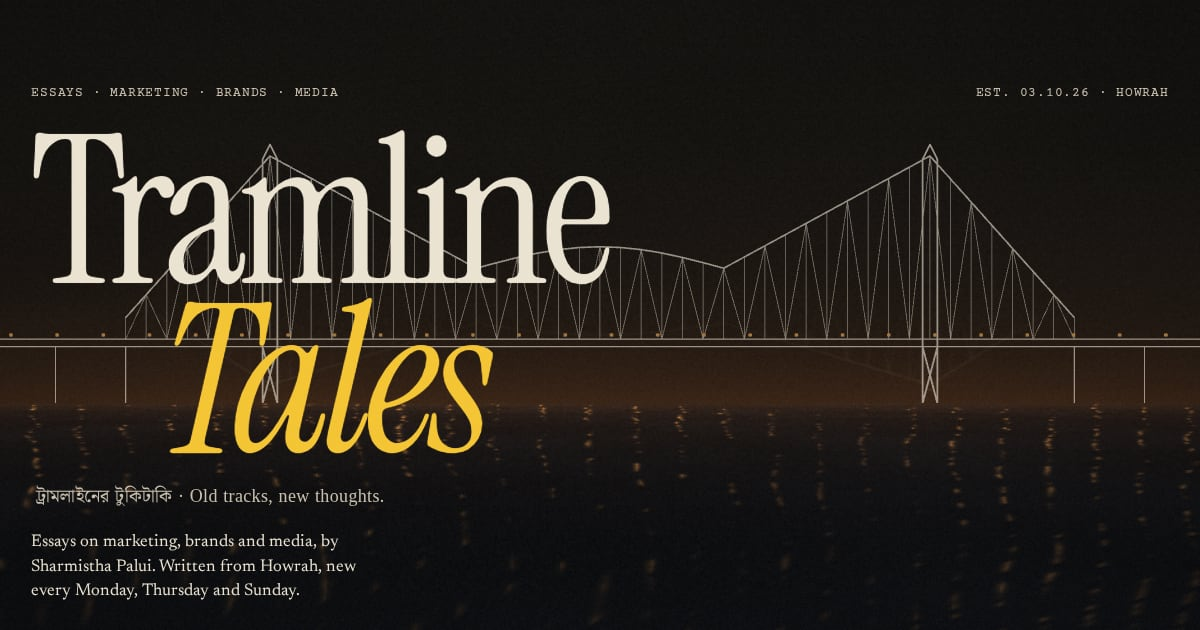
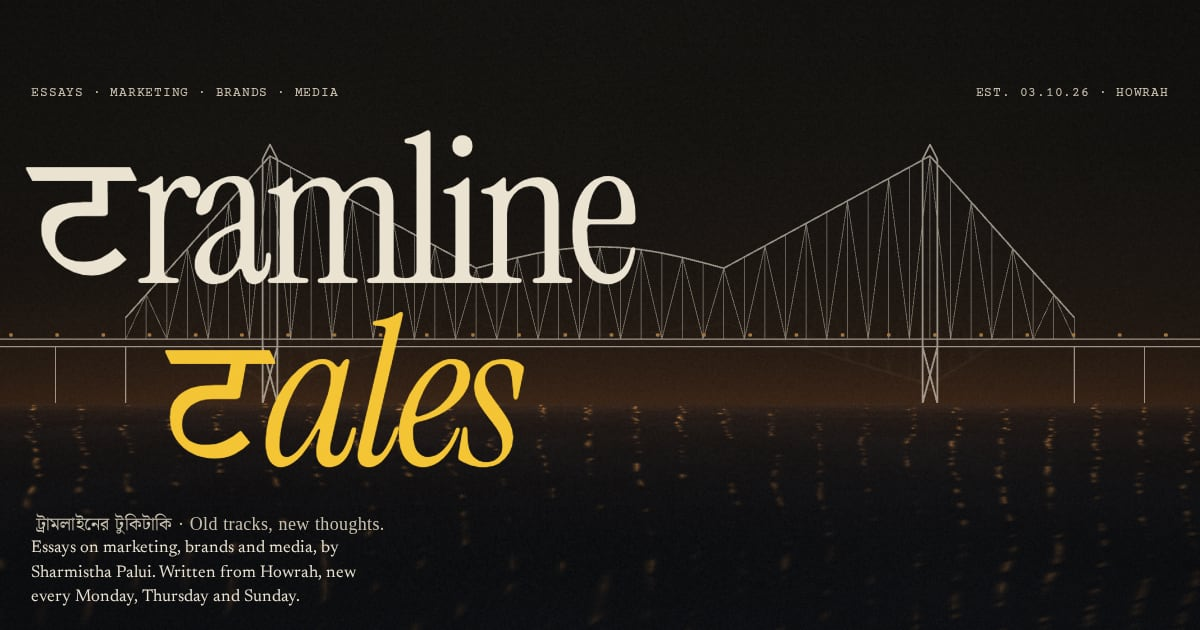
Write the T of Tramline and Tales as ट in the home-page title
The hero H1 now shows टramline टales, set in Tiro Devanagari Hindi (with
its italic for टales). Screen readers and search engines still read the
title as "Tramline Tales". The share preview image is re-rendered to match.

Claude-Session: https://claude.ai/code/session_013u1DaVAxypCDrdt69CvmPq

Changed region(s): [[0.0, 0.2111, 0.555, 0.754], [0.0308, 0.754, 0.3083, 0.9651]]

diff --git a/src/styles/global.css b/src/styles/global.css
@@ -6,6 +6,8 @@
 @import '@fontsource/courier-prime/latin-700.css';
 @import '@fontsource/nanum-pen-script/latin-400.css';
 @import '@fontsource/noto-serif-bengali/bengali-400.css';
+@import '@fontsource/tiro-devanagari-hindi/devanagari-400.css';
+@import '@fontsource/tiro-devanagari-hindi/devanagari-400-italic.css';
 @import 'lenis/dist/lenis.css';
 
 /* ---------- tokens ---------- */
@@ -159,6 +161,8 @@ html.js.arriving .wipe { visibility: visible; }
 .hero-kicker { display: flex; justify-content: space-between; gap: 16px; color: var(--paper-dim); }
 .hero-title { align-self: start; margin: clamp(10px, 4vh, 48px) 0 0; font-family: var(--f-display); font-weight: 400; line-height: 0.82; letter-spacing: -0.035em; font-size: clamp(80px, 17.2vw, 330px); }
 .hero-title .l1 { display: block; }
+/* the desi ट standing in for each T */
+.hero-title .dv { font-family: 'Tiro Devanagari Hindi', var(--f-display); font-size: var(--dv-size, 0.9em); letter-spacing: 0; margin-right: 0.02em; }
 .hero-title .l2 { display: block; padding-left: 0.62em; font-style: italic; color: var(--accent); }
 .hero-title .bn { display: block; font-family: var(--f-bn); font-size: clamp(14px, 1.5vw, 22px); letter-spacing: 0.02em; color: var(--paper-dim); margin: 0.9em 0 0 0.25em; line-height: 1.4; }
 .hero-foot { display: grid; grid-template-columns: minmax(0, 1fr) auto; align-items: end; gap: 24px; }
